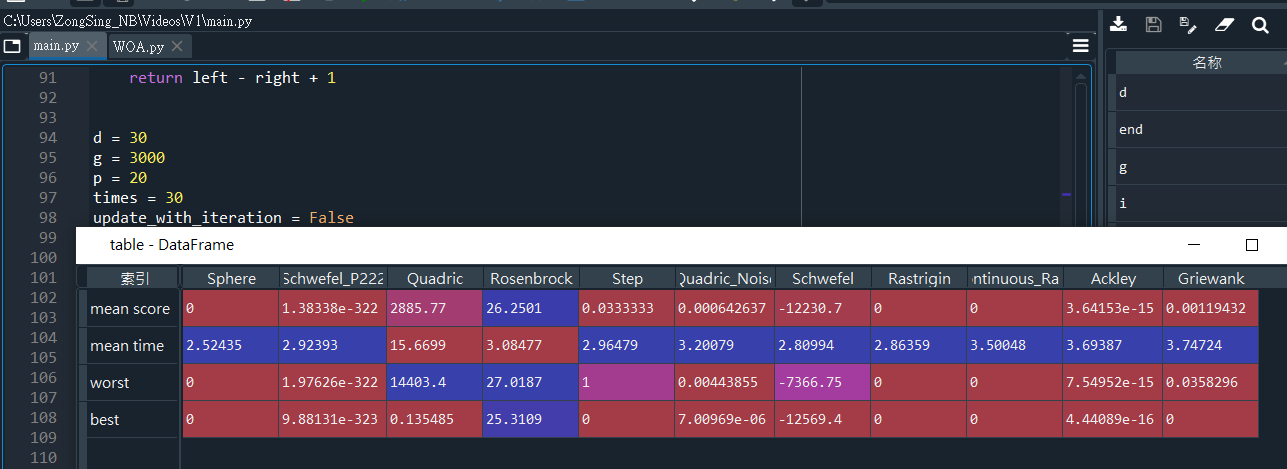
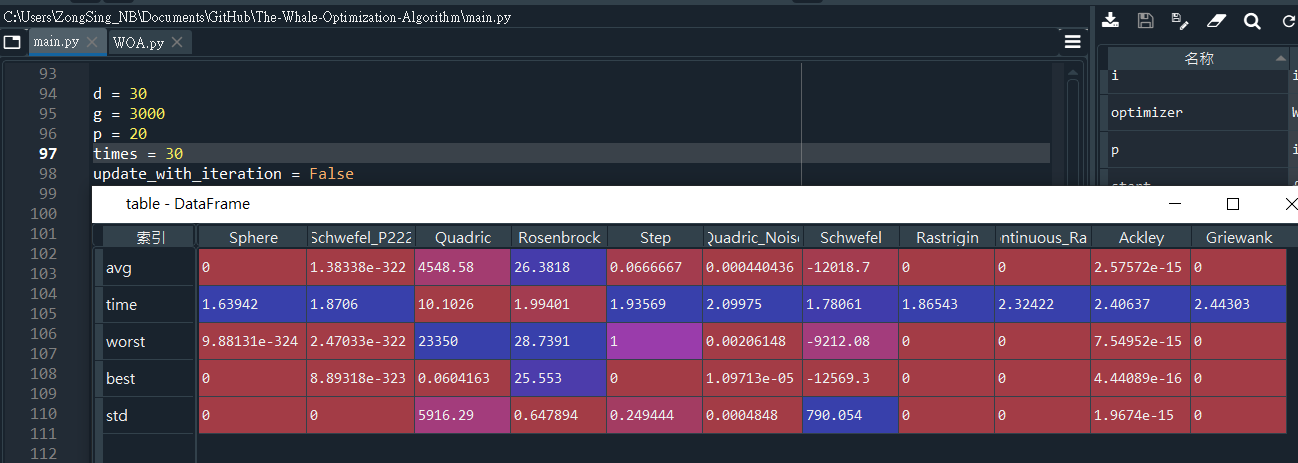
2020.08.20

diff --git a/main.py b/main.py
@@ -95,10 +95,11 @@ d = 30
 g = 3000
 p = 20
 times = 30
-update_with_iteration = False
-table = np.zeros((4, 11))
+update_with_iteration = True
+table = np.zeros((5, 11))
 table[2, :] = -np.ones(11)*np.inf
 table[3, :] = np.ones(11)*np.inf
+ALL = np.zeros((times, 11))
 for i in range(times):
     x_max = 100*np.ones(d)
     x_min = -100*np.ones(d)
@@ -111,6 +112,7 @@ for i in range(times):
     if optimizer.gBest_score<table[3, 0]: table[3, 0] = optimizer.gBest_score
     table[0, 0] += optimizer.gBest_score
     table[1, 0] += end - start 
+    ALL[i, 0] = optimizer.gBest_score
 
 
     x_max = 10*np.ones(d)
@@ -124,6 +126,7 @@ for i in range(times):
     if optimizer.gBest_score<table[3, 1]: table[3, 1] = optimizer.gBest_score
     table[0, 1] += optimizer.gBest_score
     table[1, 1] += end - start  
+    ALL[i, 1] = optimizer.gBest_score
 
     
     x_max = 100*np.ones(d)
@@ -137,6 +140,7 @@ for i in range(times):
     if optimizer.gBest_score<table[3, 2]: table[3, 2] = optimizer.gBest_score
     table[0, 2] += optimizer.gBest_score
     table[1, 2] += end - start
+    ALL[i, 2] = optimizer.gBest_score
   
  
     x_max = 10*np.ones(d)
@@ -150,6 +154,7 @@ for i in range(times):
     if optimizer.gBest_score<table[3, 3]: table[3, 3] = optimizer.gBest_score  
     table[0, 3] += optimizer.gBest_score
     table[1, 3] += end - start   
+    ALL[i, 3] = optimizer.gBest_score
 
    
     x_max = 100*np.ones(d)
@@ -163,6 +168,7 @@ for i in range(times):
     if optimizer.gBest_score<table[3, 4]: table[3, 4] = optimizer.gBest_score  
     table[0, 4] += optimizer.gBest_score
     table[1, 4] += end - start
+    ALL[i, 4] = optimizer.gBest_score
   
   
     x_max = 1.28*np.ones(d)
@@ -176,6 +182,7 @@ for i in range(times):
     if optimizer.gBest_score<table[3, 5]: table[3, 5] = optimizer.gBest_score   
     table[0, 5] += optimizer.gBest_score
     table[1, 5] += end - start
+    ALL[i, 5] = optimizer.gBest_score
  
  
     x_max = 500*np.ones(d)
@@ -189,6 +196,7 @@ for i in range(times):
     if optimizer.gBest_score<table[3, 6]: table[3, 6] = optimizer.gBest_score   
     table[0, 6] += optimizer.gBest_score
     table[1, 6] += end - start
+    ALL[i, 6] = optimizer.gBest_score
   
 
     x_max = 5.12*np.ones(d)
@@ -202,6 +210,7 @@ for i in range(times):
     if optimizer.gBest_score<table[3, 7]: table[3, 7] = optimizer.gBest_score   
     table[0, 7] += optimizer.gBest_score
     table[1, 7] += end - start  
+    ALL[i, 7] = optimizer.gBest_score
 
 
     x_max = 5.12*np.ones(d)
@@ -215,6 +224,7 @@ for i in range(times):
     if optimizer.gBest_score<table[3, 8]: table[3, 8] = optimizer.gBest_score  
     table[0, 8] += optimizer.gBest_score
     table[1, 8] += end - start
+    ALL[i, 8] = optimizer.gBest_score
   
  
     x_max = 32*np.ones(d)
@@ -228,6 +238,7 @@ for i in range(times):
     if optimizer.gBest_score<table[3, 9]: table[3, 9] = optimizer.gBest_score  
     table[0, 9] += optimizer.gBest_score
     table[1, 9] += end - start
+    ALL[i, 9] = optimizer.gBest_score
    
  
     x_max = 600*np.ones(d)
@@ -241,12 +252,14 @@ for i in range(times):
     if optimizer.gBest_score<table[3, 10]: table[3, 10] = optimizer.gBest_score  
     table[0, 10] += optimizer.gBest_score
     table[1, 10] += end - start  
+    ALL[i, 10] = optimizer.gBest_score
     
     print(i+1)
     
     
 table[:2, :] = table[:2, :] / times
+table[4, :] = np.std(ALL, axis=0)
 table = pd.DataFrame(table)
 table.columns=['Sphere', 'Schwefel_P222', 'Quadric', 'Rosenbrock', 'Step', 'Quadric_Noise', 'Schwefel', 
                 'Rastrigin', 'Noncontinuous_Rastrigin', 'Ackley', 'Griewank']
-table.index = ['mean score', 'mean time', 'worst', 'best']
+table.index = ['avg', 'time', 'worst', 'best', 'std']
